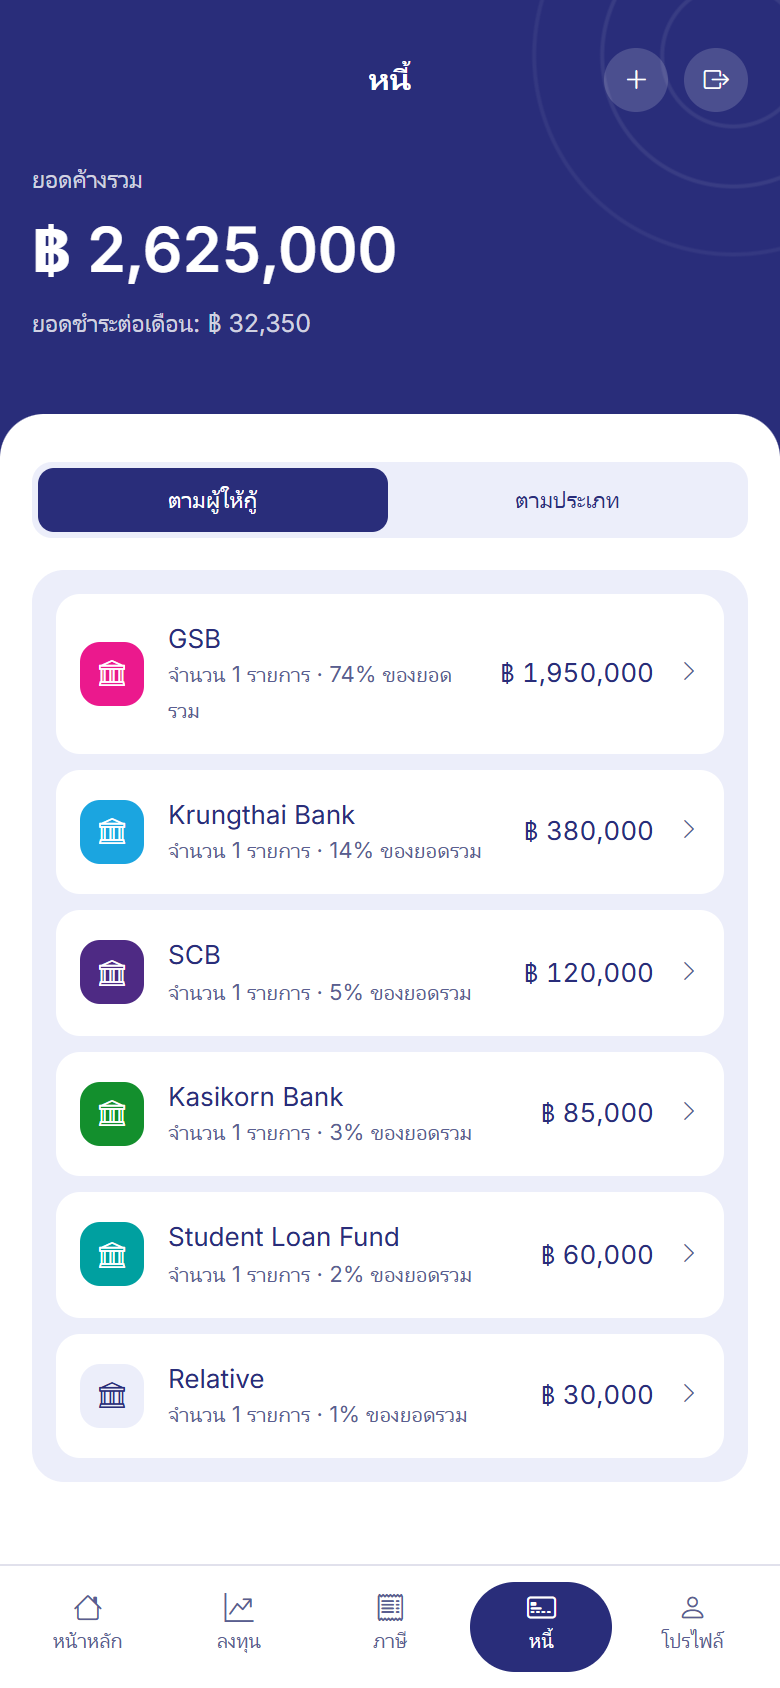
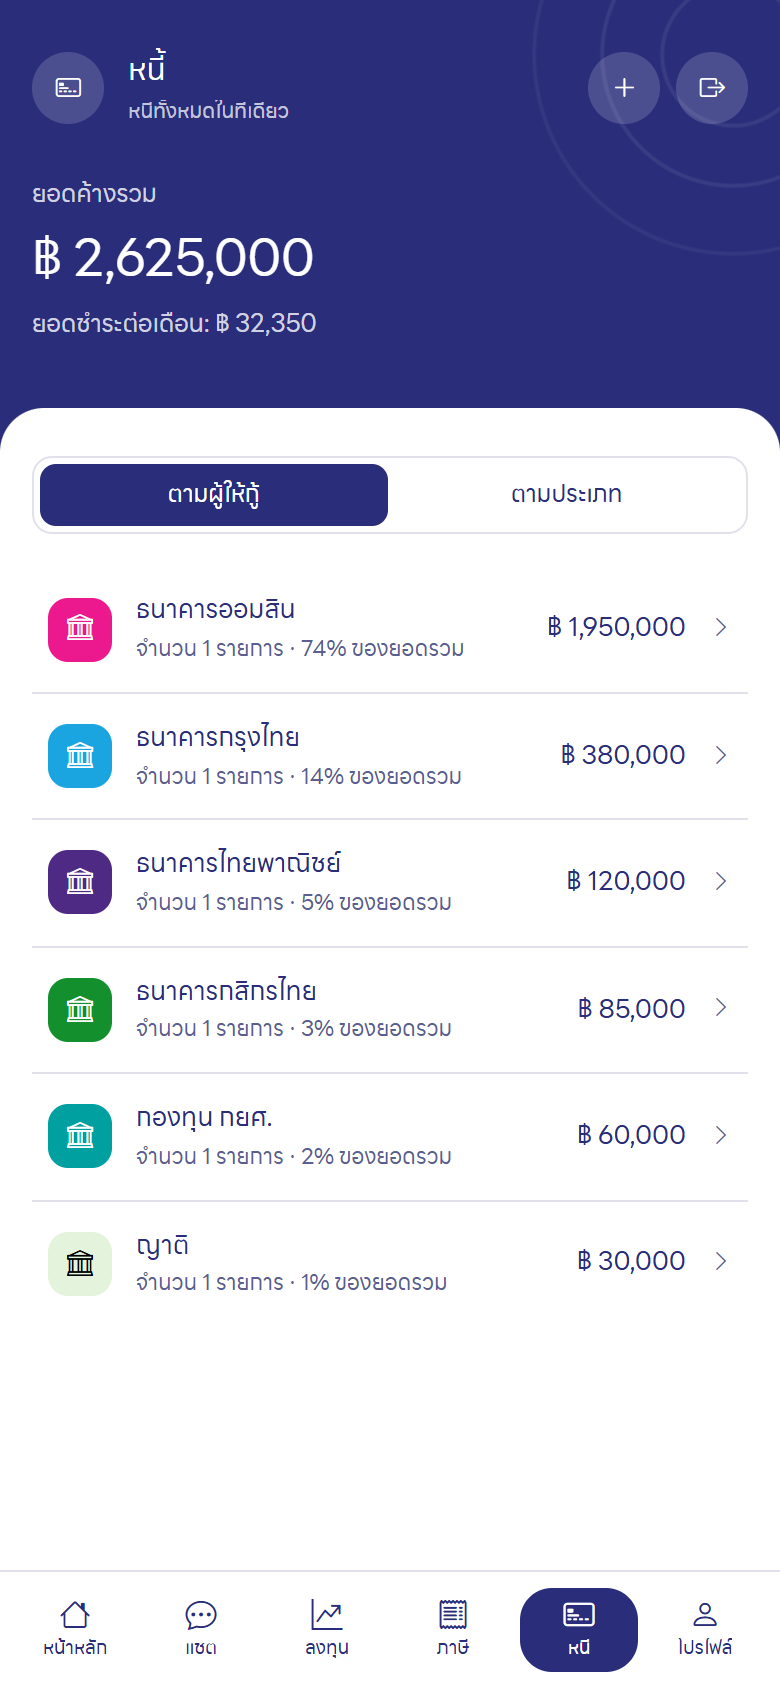
docs: phone screenshots of every screen (Thai and English); refresh landing page images

diff --git a/docs/screenshots/README.md b/docs/screenshots/README.md
@@ -1,0 +1,37 @@
+# Debtwise screenshots (phone)
+
+Phone size, 390 by 844 CSS pixels at 2x (780 by 1688 files). Taken with Playwright in Edge, with a demo family and real Thai bank names. Everything shown is demo data. Thai is in `phone/th`, English in `phone/en`, the same 35 screens in each, plus 10 whole pages.
+
+| File | Screen |
+|---|---|
+| 01-landing | Landing page before login |
+| 02-guide | Guide |
+| 03-get-the-app | Get the app |
+| 04-get-started | Get started |
+| 05-support | Support |
+| 06-community | Community |
+| 07-terms | Terms (draft) |
+| 08-privacy | Privacy (draft) |
+| 09-sign-in | Sign in |
+| 10 to 14-onboarding-1 to 5 | The five onboarding steps |
+| 15, 16 | Year picker and day picker pop-ups |
+| 20-home | Home, month at a glance |
+| 21-home-no-debts | Home with no debts |
+| 22-chat | Chat, first line from the app's numbers |
+| 23-chat-proposal | A one-off bill proposed by the consultant |
+| 24-chat-sources | The answer after applying it, with Bank of Thailand sources |
+| 25-invest | Invest, live token prices and the sample unlock calendar |
+| 26-tax | Tax estimate and allowances (Revenue Department rules, 2568) |
+| 27-debt-by-bank, 28-debt-by-type | Debt tab |
+| 29-bank-group | Loans inside one bank |
+| 30-loan-detail | A loan, with payoff at the minimum |
+| 31-loan-delete-popup | Delete warning |
+| 32-add-debt, 33-add-debt-form | Add a debt |
+| 34-review-numbers | Check the numbers from a statement |
+| 35-plan | This month's plan |
+| 36-plan-message-to-lender | Drafted message to the lender |
+| 37-profile, 38-profile-delete-popup | Profile and its delete warning |
+
+`phone/<lang>/full-page/` holds whole pages as one tall image (1x): landing, guide, terms, privacy, home, loan detail, plan, tax, invest, profile.
+
+The chat reply in 23 and 24 is a scripted example, not a live AI answer. To retake the set, run the app with a mock store and capture each route at the phone size above.
